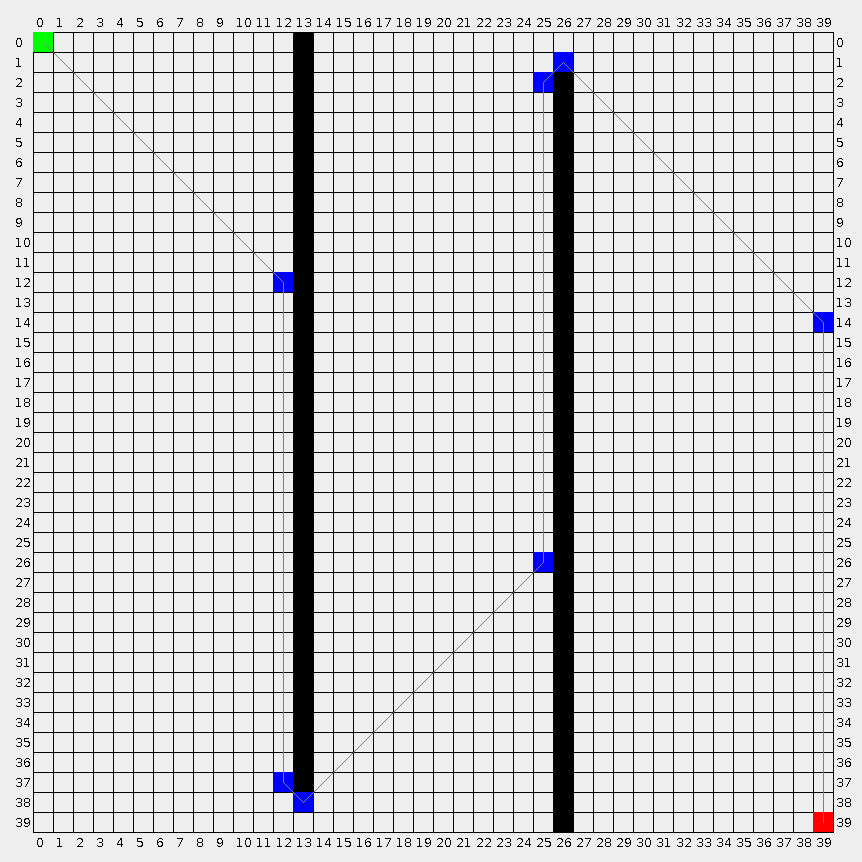
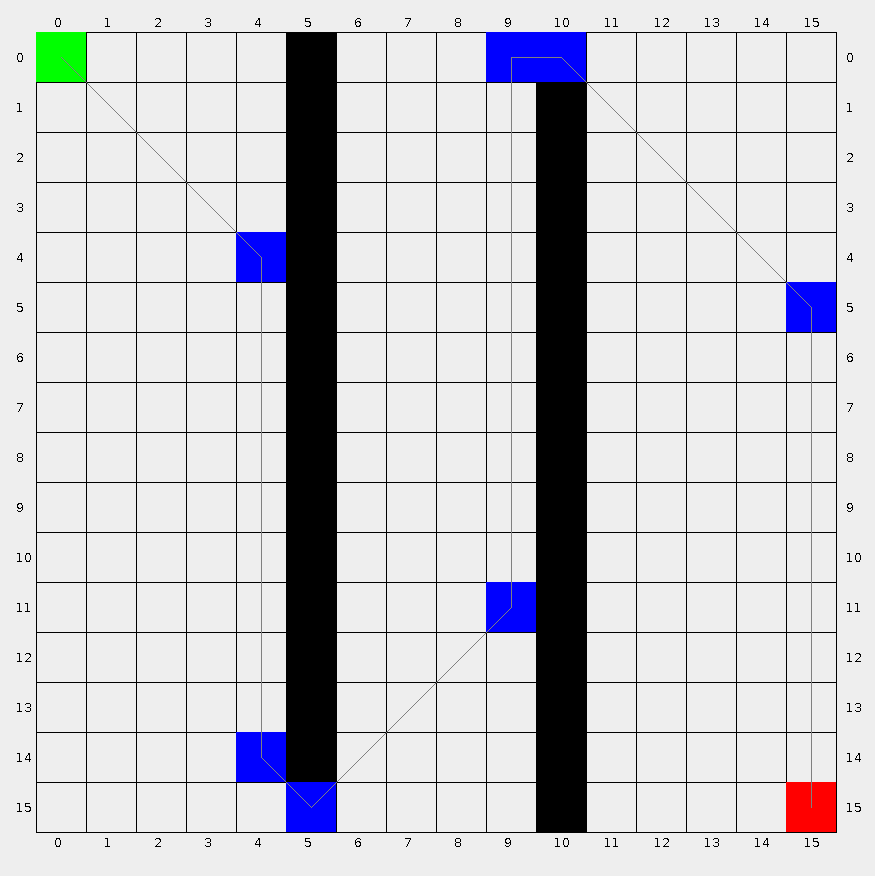
bugfix

Changed region(s): [[0.0, 0.0, 0.9954, 0.9954]]

diff --git a/src/main/java/io/ytcode/pathfinding/astar/AStar.java b/src/main/java/io/ytcode/pathfinding/astar/AStar.java
@@ -18,6 +18,7 @@ import static java.lang.Math.min;
 /** http://homepages.abdn.ac.uk/f.guerin/pages/teaching/CS1013/practicals/aStarTutorial.htm */
 public class AStar {
   private static final Logger logger = LoggerFactory.getLogger(AStar.class);
+  private static final float DELTA = 1f;
 
   private final Nodes nodes;
 
@@ -26,12 +27,21 @@ public class AStar {
   }
 
   public Path search(int sx, int sy, int ex, int ey, Grid map) {
+    return search(sx, sy, ex, ey, map, false);
+  }
+
+  public Path search(int sx, int sy, int ex, int ey, Grid map, boolean smooth) {
     Path p = new Path();
-    search(sx, sy, ex, ey, map, p);
+    search(sx, sy, ex, ey, map, p, smooth);
     return p;
   }
 
   public void search(int sx, int sy, int ex, int ey, Grid map, Path path) {
+    search(sx, sy, ex, ey, map, path, false);
+  }
+
+  public void search(
+      int sx, int sy, int ex, int ey, Grid map, Path path, boolean smooth) { // smooth出来的路径不保证完全准确
     assert isCLean(map);
     if (!map.isWalkable(sx, sy)) {
       return;
@@ -64,7 +74,7 @@ public class AStar {
         int y = getY(n);
 
         if (x == ex && y == ey) {
-          fillPath(x, y, path, sx, sy, map);
+          fillPath(x, y, path, sx, sy, map, smooth);
           return;
         }
 
@@ -96,16 +106,44 @@ public class AStar {
   private void open(int x, int y, int g, int pd, int ex, int ey, Grid map) {
     int info = map.info(x, y);
 
-    if (isNullNode(info)) { // 也是walkable的
+    if (isUnwalkable(info)) {
+      return;
+    }
+
+    /*
+     * 方向是直角坐标系第一象限中的方向，即0,0点在左下角
+     * 所以一个格子的坐下角点，左边，下边都属于这个格子，而上边，右边及右上角点都属于其他格子
+     *
+     * 假设在网格坐标系中，一个格子大小是100*100
+     *
+     * 点(0,0)是(0,0)格子的左下角点
+     * 边(0,0-99)是(0,0)格子的左边
+     * 边(0-99,0)是(0,0)格子的下边
+     *
+     * 点(100,100)是(1,1)格子的左下角点
+     * 边(0-99,100)是(0,1)格子的下边
+     * 边(100,0-99)是(1,0)格子的右边
+     */
+    switch (pd) {
+      case DIRECTION_RIGHT_DOWN: // 往左上走
+        if (!map.isWalkable(x + 1, y)) {
+          return;
+        }
+        break;
+
+      case DIRECTION_LEFT_UP: // 往右下走
+        if (!map.isWalkable(x, y + 1)) {
+          return;
+        }
+        break;
+    }
+
+    if (isNullNode(info)) {
       nodes.open(x, y, g, hCost(x, y, ex, ey), pd);
       return;
     }
 
     if (isClosedNode(info)) {
-      return;
-    }
-
-    if (isUnwalkable(info)) {
       return;
     }
 
@@ -121,8 +159,8 @@ public class AStar {
     nodes.openNodeParentChanged(n, idx, pd);
   }
 
-  private void fillPath(int x, int y, Path path, int sx, int sy, Grid map) {
-    path.add(x, y);
+  private void fillPath(int x, int y, Path path, int sx, int sy, Grid map, boolean smooth) {
+    pathAdd(path, x, y, map, smooth);
     int pd = map.nodeParentDirection(x, y);
 
     while (true) {
@@ -168,16 +206,132 @@ public class AStar {
       }
 
       if (x == sx && y == sy) {
-        path.add(x, y);
+        pathAdd(path, x, y, map, smooth);
         return;
       }
 
       int ppd = map.nodeParentDirection(x, y);
       if (ppd != pd) {
-        path.add(x, y);
+        pathAdd(path, x, y, map, smooth);
         pd = ppd;
       }
     }
+  }
+
+  private void pathAdd(Path path, int x, int y, Grid map, boolean smooth) {
+    if (!smooth) {
+      path.add(x, y);
+      return;
+    }
+
+    // 这个点到上一个点是直达的，所以只用看上上个点
+    while (path.size() >= 2) {
+      long p = path.get(1);
+      int x2 = Point.getX(p);
+      int y2 = Point.getY(p);
+
+      if (!canReachDirectly(x, y, x2, y2, map)) {
+        path.add(x, y);
+        return;
+      }
+      path.remove();
+    }
+    path.add(x, y);
+  }
+
+  private boolean canReachDirectly(int x1, int y1, int x2, int y2, Grid map) { // 不完全准确，只是近似
+    int dx = x2 - x1;
+    int dy = y2 - y1;
+
+    // 水平直线
+    if (dy == 0) {
+      if (x2 > x1) {
+        for (int x = x1 + 1; x < x2; x++) {
+          if (!map.isWalkable(x, y1)) {
+            return false;
+          }
+        }
+      } else {
+        for (int x = x2 + 1; x < x1; x++) {
+          if (!map.isWalkable(x, y1)) {
+            return false;
+          }
+        }
+      }
+      return true;
+    }
+
+    // 竖直直线
+    if (dx == 0) {
+      if (y2 > y1) {
+        for (int y = y1 + 1; y < y2; y++) {
+          if (!map.isWalkable(x1, y)) {
+            return false;
+          }
+        }
+      } else {
+        for (int y = y2 + 1; y < y1; y++) {
+          if (!map.isWalkable(x1, y)) {
+            return false;
+          }
+        }
+      }
+    }
+
+    // 偏x轴，递增x
+    if (Math.abs(dx) > Math.abs(dy)) {
+      float deltaX = dx > 0 ? DELTA : -DELTA;
+      float deltaY = (float) dy / dx * deltaX;
+
+      float x = x1 + 0.5f + deltaX; // 从起始点的中心开始
+      float y = y1 + 0.5f + deltaY;
+
+      if (dx > 0) {
+        while (x < x2) {
+          if (!map.isWalkable((int) x, (int) y)) {
+            return false;
+          }
+          x += deltaX;
+          y += deltaY;
+        }
+      } else {
+        while (x > x2) {
+          if (!map.isWalkable((int) x, (int) y)) {
+            return false;
+          }
+          x += deltaX;
+          y += deltaY;
+        }
+      }
+
+      return true;
+    }
+
+    // 偏y轴，递增y
+    float deltaY = dy > 0 ? DELTA : -DELTA;
+    float deltaX = (float) dx / dy * deltaY;
+
+    float x = x1 + 0.5f + deltaX; // 从起始点的中心开始
+    float y = y1 + 0.5f + deltaY;
+
+    if (dy > 0) {
+      while (y < y2) {
+        if (!map.isWalkable((int) x, (int) y)) {
+          return false;
+        }
+        x += deltaX;
+        y += deltaY;
+      }
+    } else {
+      while (y > y2) {
+        if (!map.isWalkable((int) x, (int) y)) {
+          return false;
+        }
+        x += deltaX;
+        y += deltaY;
+      }
+    }
+    return true;
   }
 
   private void clear() {

diff --git a/src/test/java/io/ytcode/pathfinding/astar/VisualDemo.java b/src/test/java/io/ytcode/pathfinding/astar/VisualDemo.java
@@ -2,6 +2,7 @@ package io.ytcode.pathfinding.astar;
 
 import java.awt.*;
 import java.util.HashSet;
+import java.util.Random;
 import java.util.Set;
 
 import static io.ytcode.pathfinding.astar.Point.toPoint;
@@ -12,21 +13,44 @@ public class VisualDemo extends GridCanvas {
   public static void main(String[] args) {
     Grid map = new Grid(gridWidth, gridHeight);
 
-    for (int y = 0; y < map.getHeight() - 2; y++) {
-      map.setWalkable(map.getWidth() / 3, y, false);
-    }
-
-    for (int y = 2; y < map.getHeight(); y++) {
-      map.setWalkable(map.getWidth() / 3 * 2, y, false);
-    }
-
     int x1 = 0;
     int y1 = 0;
     int x2 = map.getWidth() - 1;
     int y2 = map.getHeight() - 1;
 
-    Path path = new AStar().search(x1, y1, x2, y2, map);
+    setWalkable(map, x1, y1, x2, y2, true);
+
+    Path path = new AStar().search(x1, y1, x2, y2, map, false);
     new VisualDemo(map, path);
+  }
+
+  private static void setWalkable(Grid map, int x1, int y1, int x2, int y2, boolean random) {
+    if (!random) {
+      for (int y = 0; y < map.getHeight() - 1; y++) {
+        map.setWalkable(map.getWidth() / 3, y, false);
+      }
+      for (int y = 1; y < map.getHeight(); y++) {
+        map.setWalkable(map.getWidth() / 3 * 2, y, false);
+      }
+      return;
+    }
+
+    Random r = new Random();
+    int n = map.getWidth() * map.getHeight() / 5;
+
+    for (int i = 0; i < n; i++) {
+      int x = r.nextInt(map.getWidth());
+      int y = r.nextInt(map.getHeight());
+
+      if (x == x1 && y == y1) {
+        continue;
+      }
+
+      if (x == x2 && y == y2) {
+        continue;
+      }
+      map.setWalkable(x, y, false);
+    }
   }
 
   private final Set<Long> paintedPs = new HashSet<>();

diff --git a/src/test/java/io/ytcode/pathfinding/astar/GridCanvas.java b/src/test/java/io/ytcode/pathfinding/astar/GridCanvas.java
@@ -5,15 +5,15 @@ import java.awt.*;
 
 public abstract class GridCanvas extends JFrame {
 
-  private static final int width = 1800; // 90
-  private static final int height = 1000; // 50
+  private static final int width = 800; // 90
+  private static final int height = 800; // 50
 
-  private static final int startX = 50;
-  private static final int startY = 60;
+  private static final int startX = 60;
+  private static final int startY = 80;
   private static final int endX = startX + width;
   private static final int endY = startY + height;
 
-  private static final int gridSize = 20;
+  private static final int gridSize = 50;
   static final int gridWidth = width / gridSize;
   static final int gridHeight = height / gridSize;
 
@@ -34,8 +34,9 @@ public abstract class GridCanvas extends JFrame {
       int x = i * gridSize + startX;
       g.drawLine(x, startY, x, endY);
       if (i < gridWidth) {
-        g.drawString("" + i, x + 3, startY - 5);
-        g.drawString("" + i, x + 3, endY + 15);
+        x = x + gridSize / 2 - 7;
+        g.drawString("" + i, x, startY - 5);
+        g.drawString("" + i, x, endY + 15);
       }
     }
 
@@ -44,8 +45,9 @@ public abstract class GridCanvas extends JFrame {
       int y = i * gridSize + startY;
       g.drawLine(startX, y, endX, y);
       if (i < gridHeight) {
-        g.drawString("" + i, startX - 18, y + 15);
-        g.drawString("" + i, endX + 3, y + 15);
+        y = y + gridSize / 2 + 5;
+        g.drawString("" + i, startX - 20, y);
+        g.drawString("" + i, endX + 10, y);
       }
     }
   }

diff --git a/src/main/java/io/ytcode/pathfinding/astar/Path.java b/src/main/java/io/ytcode/pathfinding/astar/Path.java
@@ -13,6 +13,19 @@ public class Path {
     this.ps = new long[8];
   }
 
+  void add(int x, int y) { // 从后向前加
+    long p = toPoint(x, y);
+    if (size >= ps.length) {
+      grow(size + 1);
+    }
+    ps[size] = p;
+    size++;
+  }
+
+  void remove() {
+    size--;
+  }
+
   public long get(int i) {
     assert i >= 0 && i < size;
     return ps[size - 1 - i];
@@ -22,16 +35,7 @@ public class Path {
     return size;
   }
 
-  void add(int x, int y) {
-    long p = toPoint(x, y);
-    if (size >= ps.length) {
-      grow(size + 1);
-    }
-    ps[size] = p;
-    size++;
-  }
-
-  void clear() {
+  public void clear() {
     size = 0;
   }
 

diff --git a/README.md b/README.md
@@ -60,6 +60,8 @@ From 0-0 to 499-499 -> 11867 ops/sec
 
 ![Image of AStar](images/astar.png)
 
+![Image of AStar2](images/astar2.png)
+
 <!-- references -->
 
 [maven-shield]: https://img.shields.io/maven-central/v/io.ytcode/pathfinding.png
